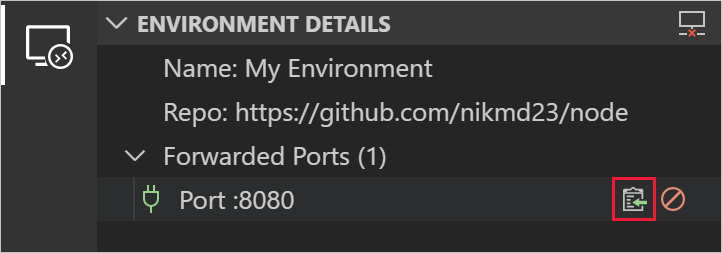
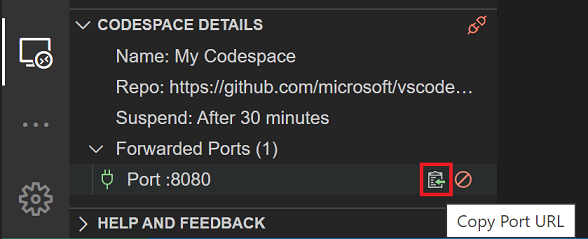
Update browser Howto

diff --git a/vscodespaces/how-to/browser.md b/vscodespaces/how-to/browser.md
@@ -9,13 +9,13 @@ ms.date: 09/20/2019
 
 # Visual Studio Codespaces Browser How-to
 
-## Sign Up
+## Sign up
 
 A Microsoft Account and Azure Subscription are required to use Visual Studio Codespaces.
 
 You can sign up for both, as well as receive various Azure incentives at [https://azure.microsoft.com/free/](https://azure.microsoft.com/free/).
 
-## Sign In
+## Sign in
 
 To sign into Codespaces, browse to the [login page](https://online.visualstudio.com/login) and click the **Sign in** button.
 
@@ -25,124 +25,122 @@ Follow the prompts in the pop-up dialog to complete sign in.
 
 ## Create a plan
 
-Once you've [signed up](#sign-up) and created an Azure subscription, you can access Codespaces by creating a Codespaces Plan. You can create more than one plan, and plans can be used to group related environments together. They are also the unit of billing, and as such you'll see a line item on your Azure bill for each plan you create.
+Once you've [signed up](#sign-up) and created an Azure subscription, you can access Codespaces by creating a Codespaces Plan. You can create more than one plan, and plans can be used to group related codespaces together. They are also the unit of billing, and as such you'll see a line item on your Azure bill for each plan you create.
 
-More information about plans and pricing is available on [the Codespaces pricing page](https://aka.ms/vso-pricing).
+More information about plans and pricing is available on the [Visual Studio Codespaces pricing](https://aka.ms/vso-pricing) page.
 
-To create a new plan, browse to the [environments listing page](https://online.visualstudio.com/environments) and either using the blue **Create new plan** button (if it's available), or by clicking the **Create new plan** in the **Plan Selector** dropdown in the header bar.
+To create a new plan, browse to the [Codespaces management portal](https://online.visualstudio.com/environments) and either using the blue **Create Codespace** button (if it's available), or by clicking the **Create new plan** in the **Plan Selector** dropdown in the header bar.
 
 ![Create Visual Studio Codespaces plan](../images/create-plan-vso-01.png)
 
-Fill in the form to select an Azure subscription to associate the plan with, an Azure resource group to create the plan in, an Azure region to geo-locate the plan in, and specify a name for the plan itself.
+Fill in the form to select an Azure subscription to associate the plan with and an Azure region to geo-locate the plan in.
 
 - **Subscription**: You can choose from any existing Azure subscription.
-- **Resource Group**: Your Codespaces plan will be created in the existing Azure resource group selected.
-- **Region**: Choose an [Azure region](https://azure.microsoft.com/global-infrastructure/regions/) to create the Codespaces plan in. All environments created within this plan, will be provisioned in the region selected. Supported regions are:
+- **Location**: Choose an [Azure region](https://azure.microsoft.com/global-infrastructure/regions/) to create the Codespaces Plan in. All codespaces created within this plan, will be provisioned in the location selected. 
+ 
+Supported regions are:
   - East US
   - Southeast Asia
   - West Europe
   - West US 2
-- **Plan Name**: The name of the created Codespaces plan. This name is displayed in the **Plan Selector** for organization purposes.
+
+And under **Advanced Options**, you can leave the automatically generated values or set your own for:
+
+- **Plan Name**: For example: "My-Codespaces-Plan"
+- **Resource Group**: Choose any existing Azure resource group you'd like. A new resource group will be created if an existing one isn't specified.
+- **Default Instance Type**: Choose the default Codespaces Instance Type, such as Standard (Linux).
 
 Once a plan is created, it will be the selected plan in the **Plan Selector**.
 
-![Selected Visual Studio Codespaces plan](../images/create-plan-vso-02.png)
+![Selected Visual Studio Codespaces Plan](../images/create-plan-vso-02.png)
 
-Only environments contained within the selected plan will be displayed. To select a different plan, use the **Plan Selector** menu.
+Only codespaces contained within the selected plan will be displayed. To select a different plan, use the **Plan Selector** menu.
 
-## Create an environment
+## Create a codespace
 
 > [!NOTE]
-> Cloud-hosted environments are extremely configurable. See [configuring environments](../reference/configuring.md) for advanced information about how to configure your environments.
+> Cloud-hosted codespaces are extremely configurable. See [configuring Codespace environments](../reference/configuring.md) for advanced information about how to configure your codespaces.
 >[!TIP]
-> Want to bring your existing environment or need specialized hardware? Try out our [self-hosted offering](self-hosting-vscode.md)!
+> Want to bring your existing development environment or need specialized hardware? Try out our [self-hosted offering](self-hosting-vscode.md)!
 
-To create a new cloud-hosted environment in Codespaces, from the [environments listing page](https://online.visualstudio.com/environments) click the **Create environment** button.
+To create a new cloud-hosted codespace, fill in the **Create Codespace** form. The form will be shown after you create a plan if you selected the **Create Codespace** button earlier or by selecting the **Create Codespace** button now in the Codespaces management portal.
 
-![Create environment in Visual Studio Code](../images/create-env-vso-01.png)
+![Create codespace in Codespaces management portal](../images/create-env-vso-01.png)
 
-Complete the form to provide an environment name, path to Git repository (optional), auto-suspend settings, and an instance type.
+Complete the form to provide a codespace name, path to Git repository (optional), auto-suspend settings, and an instance type.
 
-![Create environment in Visual Studio Code](../images/create-env-vso-02.png)
+![Create codespace form](../images/create-env-vso-02.png)
 
-- **Environment Name**: You can name your environment anything you'd like, but we recommend naming it after the project or task that you'll be using it for. (e.g. 'Todo App Environment', 'PR Review', 'Shopping Cart Feature')
-- **Git Repository**: If a path to a Git repository is provided, Codespaces will automatically clone that repository into the environment. You can refer to our [repository reference](../reference/repository.md) on the supported url types and providers.
-- **Auto-suspend Setting**: The length of disconnected time before a Codespaces environment will be automatically suspended. Choose between:
+- **Codespace Name**: You can name your codespace anything you'd like, but we recommend naming it after the project or task that you'll be using it for. (for example 'TODO App Codespace', 'PR Review', 'Shopping Cart Feature')
+- **Git Repository**: If a path to a Git repository is provided, Codespaces will automatically clone that repository into the codespace. You can refer to our [repository reference](../reference/repository.md) on the supported URL types and providers.
+- **Instance Type**: The CPU and memory configuration that will be provisioned for your codespace. Choose **Standard (Linux)** for most projects, and **Premium (Linux)** for those that require a little extra power. More information about instance types is available at our [pricing page](https://aka.ms/vso-pricing).
+- **Suspend idle Codespace after...**: The length of disconnected time before a codespace will be automatically suspended. Choose between:
   - 5 minutes
   - 30 minutes
   - 2 hours
-- **Instance Type**: The CPU and memory configuration that will be provisioned for your environment. Choose **Standard Environment (Linux)** for most projects, and **Premium Environment (Linux)** for those that require a little extra power. More information about instance types is available at our [pricing page](https://aka.ms/vso-pricing).
 
 > [!NOTE]
 > Windows based instance types are available as part of our Codespaces for Visual Studio Private Preview. [Sign up](https://aka.ms/vsfutures-signup) to receive access.
 > [!TIP]
-> The guided environment creation experience described above supports Git repositories over the HTTP(S) scheme. To use another source control provider, or Git over SSH, simply leave the **Git Repository** setting blank, and use the environment's terminal support to clone your source code.
+> The guided codespace creation experience described above supports Git repositories over the HTTP(S) scheme. To use another source control provider, or Git over SSH, simply leave the **Git Repository** setting blank, and use the codespaces's terminal support to clone your source code.
 > [!NOTE]
-> Optional dotfiles configuration options are covered in the [Personalizing environments](../reference/personalizing.md) reference document.
+> Optional dotfiles configuration options are covered in the [Personalizing codespaces](../reference/personalizing.md) reference document.
 
-## Connect to an environment
+Once you've filled in the form, select **Create**. This will begin creating your codespace and open the codespace in your browser when it is finished.
 
-Once you finish [creating an environment](#create-an-environment), an **Available** badge will appear when the environment is ready.
+## Connect to a codespace
 
-![Connect to a new environment in Visual Studio Code](../images/connect-env-vso-01.png)
+If you go back to the management portal, there will be a new card with the name of your new codespace and a status badge of **Available**.
 
-From there, you can either click on the name of the environment (**My Environment** in this screenshot) or, click the context menu and select **Connect**. Taking either of these actions will cause your browser to navigate to Codespaces's browser-based editor and begin the connection sequence. When the connection is complete you'll be able to inspect details about the currently selected environment in the **Environment Details** panel in the **Remote Explorer** side bar.
+![Connect to a new codespace in Codespaces management portal](../images/connect-env-vso-01.png)
 
-![Environment Details in Visual Studio Code](../images/connect-env-vsc-03.png)
+From there, you can either click on the name of the codespace (**My Codespace** in this screenshot) or, right-click for the context menu and select **Connect**. Taking either of these actions will cause your browser to navigate to Codespaces's browser-based editor and begin the connection sequence. When the connection is complete, you'll be able to inspect details about the currently selected codespace in the **Codespace Details** panel in the **Remote Explorer** side bar.
+
+![Codespace details in Visual Studio Code](../images/connect-env-vsc-03.png)
 
 > [!NOTE]
-> If you are already connected to an environment in Codespaces's browser based editor, you can connect to another environment using any of the techniques covered in the [Visual Studio Code how-to](vscode.md#connect-to-an-environment) document.
+> If you are already connected to a codespace in the browser-based editor, you can connect to another codespace using any of the techniques covered in the [Visual Studio Code how-to](vscode.md#connect-to-an-environment) document.
 
-## Disconnect from an environment
+## Disconnect from a codespace
 
-Once connected to an environment, there's four ways to disconnect:
+Once connected to a codespace, there's four ways to disconnect:
 
-1. Use the **Codespaces: Disconnect** command in the [command palette](https://code.visualstudio.com/docs/getstarted/userinterface#_command-palette).
-2. Right-click the name of the connected environment in the **Codespaces** panel to reveal a context menu with a **Disconnect** option.
-3. Selecting the **Disconnect** button on the **Environment Details** title bar in the **Remote Explorer** side bar.
-4. Close the browser tab
+1. Use the **Codespaces: Disconnect** command in the [Command Palette](https://code.visualstudio.com/docs/getstarted/userinterface#_command-palette).
+2. Right-click the name of the connected codespace in the **Codespaces** panel to reveal a context menu with a **Disconnect** option.
+3. Selecting the **Disconnect** button on the **Codespace Details** title bar in the **Remote Explorer** side bar.
+4. Close the browser tab.
 
 ![Disconnect in Visual Studio Code](../images/disconnect-env-vsc-01.png)
 
-## Suspend an environment
+## Suspend a codespace
 
-As described on the [Codespaces pricing page](https://aka.ms/vso-pricing), you pay for active Codespaces usage, with a nominal fee for when an environment is suspended.
+As described on the [Codespaces pricing page](https://aka.ms/vso-pricing), you pay for active Codespaces usage, with a nominal fee for when an codespace is suspended.
 
-Codespaces will automatically suspend an inactive environment according to the auto-suspend setting used when the environment was created. This helps keep the costs of Codespaces as low as possible.
+Codespaces will automatically suspend an inactive codespace according to the auto-suspend setting used when the codespace was created. This helps keep the costs of codespaces as low as possible.
 
-In addition to auto-suspending, you can manually suspend an environment at any time by using the **Codespaces: Suspend Environment** command in the command palette, or by selecting **Suspend Environment** in the right-click context menu on any environment listed in the **Codespaces** panel of the **Remote Explorer** side bar.
+In addition to auto-suspending, you can manually suspend a codespace at any time by using the **Codespaces: Suspend Codespace** command in the Command Palette, or by selecting **Suspend Codespace** in the right-click context menu on any codespace listed in the **Codespaces** panel of the **Remote Explorer** side bar.
 
-Environments can also be suspended in Codespaces's management panel by clicking the context menu and selecting **Suspend**.
+Codespaces can also be suspended in Codespaces's management portal by clicking the context menu and selecting **Suspend**.
 
 ![Suspend in Visual Studio Codespaces](../images/suspend-vso-01.png)
 
-<!-- TODO: Add context menu screenshot -->
+## Delete a codespace
 
-## Delete an environment
-
-The actively connected environment cannot be deleted from within Codespaces's browser-based editor, instead, it can be deleted in the management portal by clicking the context menu and selecting **Delete**.
+The actively connected codespace cannot be deleted from within Codespaces's browser-based editor, instead, it can be deleted in the management portal by clicking the context menu and selecting **Delete**.
 
 ![Delete in Visual Studio Codespaces](../images/delete-env-vso-01.png)
 
 > [!NOTE]
-> If you are already connected to an environment in Codespaces's browser based editor, you can delete other environments using the techniques covered in the [Visual Studio Code how-to](vscode.md#delete-a-codespace) document.
+> If you are already connected to a codespace in Codespaces's browser-based editor, you can delete other codespaces using the techniques covered in the [Visual Studio Code how-to](vscode.md#delete-a-codespace) document.
 
 ## Using the integrated terminal
 
-Codespaces's browser based version of VS Code includes support for VS Code's integrated terminal and all of its features. It is important to note, however, that while connected to Codespaces, commands issued in the terminal are executed against the environment, not the user's local machine. This provides Codespaces users full control over their development environment and how it's configured.
+Codespaces's browser-based version of VS Code includes support for VS Code's integrated terminal and all of its features. It is important to note, however, that while connected to Codespaces, commands issued in the terminal are executed against the codespace, not the user's local machine. This provides Codespaces users full control over their development environment and how it's configured.
 
 > [!TIP]
 > The [integrated terminal is fully documented on the VS Code site](https://code.visualstudio.com/docs/editor/integrated-terminal).
 
-Codespaces exposes information about the configuration and creation of an environment in the **Codespaces** terminal. This terminal is read-only, and is meant to be used for troubleshooting purposes.
-
-![Codespaces Terminal in Visual Studio Code](../images/terminal-vsc-01.png)
-
-Attempts to type in the **Codespaces** terminal window will issue a warning notification toast. Press the **Open in New Terminal** button in the toast, or the **New Terminal** icon in the **Terminal** panel to create a new, writable terminal instance.
-
-![Codespaces Terminal Warning in Visual Studio Code](../images/terminal-vsc-02.png)
-
-In addition to the standard integrated terminal features of VS Code, Codespaces also allows for the terminal to be personalized using custom dotfiles. See [Personalizing environments](../reference/personalizing.md) for more information.
+In addition to the standard integrated terminal features of VS Code, Codespaces also allows for the terminal to be personalized using custom dotfiles. See [Personalizing codespaces](../reference/personalizing.md) for more information.
 
 ## Port Forwarding
 
@@ -150,39 +148,39 @@ Codespaces provides access to the applications and services running in remote en
 
 ### Auto port forwarding
 
-If your application, or any other, indicates that it is serving content from a local port in the integrated terminal, Codespaces will automatically forward that port and add it to the list of **Forwarded Ports** under **Environment Details**.
+If your application, or any other, indicates that it is serving content from a local port in the integrated terminal, Codespaces will automatically forward that port and add it to the list of **Forwarded Ports** under **Codespace Details**.
 
 In the example below, `npx` is used to run `http-server`, which opens port `8080`. Codespaces correspondingly and automatically forwards port `8080` so it can be accessed from your local environment.
 
-![Codespaces Auto Port Forwarding](../images/auto-port-forwarding-vsc-01.gif)
+![Codespaces auto port forwarding](../images/auto-port-forwarding-vsc-01.png)
 
 ### Port forwarding interface
 
-As with all operations in Codespaces, you can use the command palette to forward a port. Select the **Codespaces: Forward Port** command and follow its prompts: typing in a port number to forward, and to assign an optional name to the port forwarding rule.
+As with all operations in Codespaces, you can use the Command Palette to forward a port. Select the **Codespaces: Forward Port** command and follow its prompts: typing in a port number to forward, and to assign an optional name to the port forwarding rule.
 
-Additionally, you can click the **Forward Port** button on the **Forwarded Ports** title bar in the **Environment Details** panel.
+Additionally, you can click the **Forward Port** button on the **Forwarded Ports** title bar in the **Codespace Details** panel.
 
-![Codespaces Port Forwarding Interface](../images/port-forwarding-interface-vsc-01.png)
+![Codespaces port forwarding interface](../images/port-forwarding-interface-vsc-01.png)
 
 ### Configured port forwarding
 
-If there's one or more ports that should be forwarded by default for a given repository, that can be configured in `devcontainer.json`. See the [configuring environments](../reference/configuring.md) reference for more info.
+If there's one or more ports that should be forwarded by default for a given repository, that can be configured in `devcontainer.json`. See the [configuring codespaces](../reference/configuring.md) reference for more info.
 
 ### Accessing forwarded ports
 
-Once a port has been forwarded, you can click the **Copy Port URL** button on the port's title bar in the **Environment Details** panel. This will copy the full URL to the port into your clipboard so you can paste it into a browser, CLI or the API exploration tool of your choice.
+Once a port has been forwarded, you can click the **Copy Port URL** button on the port's title bar in the **Codespace Details** panel. This will copy the full URL to the port into your clipboard so you can paste it into a browser, CLI, or the API exploration tool of your choice.
 
-![Accessing Forwarded Ports](../images/accessing-forwarded-ports-vsc-01.png)
+![Accessing forwarded ports](../images/accessing-forwarded-ports-vsc-01.png)
 
 ### Stop forwarding ports
 
-There's two ways to stop a forwarded port, regardless of which mechanism was used to create it. You can either use the **Codespaces: Stop Forwarding Port** command in the command palette, or click the **Stop Forwarding Port** button on the port's title bar in the **Environment Details** panel.
+There's two ways to stop a forwarded port, regardless of which mechanism was used to create it. You can either use the **Codespaces: Stop Forwarding Port** command in the Command Palette, or select the **Stop Forwarding Port** button on the port's title bar in the **Codespace Details** panel.
 
-![Stop Port Forwarding](../images/stop-forwarding-ports-vsc-01.png)
+![Stop port forwarding](../images/stop-forwarding-ports-vsc-01.png)
 
 ## Configuration and personalization
 
-In addition to the above documentation that's specific to Codespaces's browser-based experience, Codespaces also provides flexible mechanisms to customize environments on a per repo basis, as well as to personalize them on a per user basis. Find out more in the reference documentation:
+In addition to the above documentation that's specific to Codespaces's browser-based experience, Codespaces also provides flexible mechanisms to customize codespaces on a per repository basis, as well as to personalize them on a per user basis. Find out more in the reference documentation:
 
-- [Configuring environments](../reference/configuring.md)
-- [Personalizing environments](../reference/personalizing.md)
+- [Configuring codespaces](../reference/configuring.md)
+- [Personalizing codespaces](../reference/personalizing.md)
